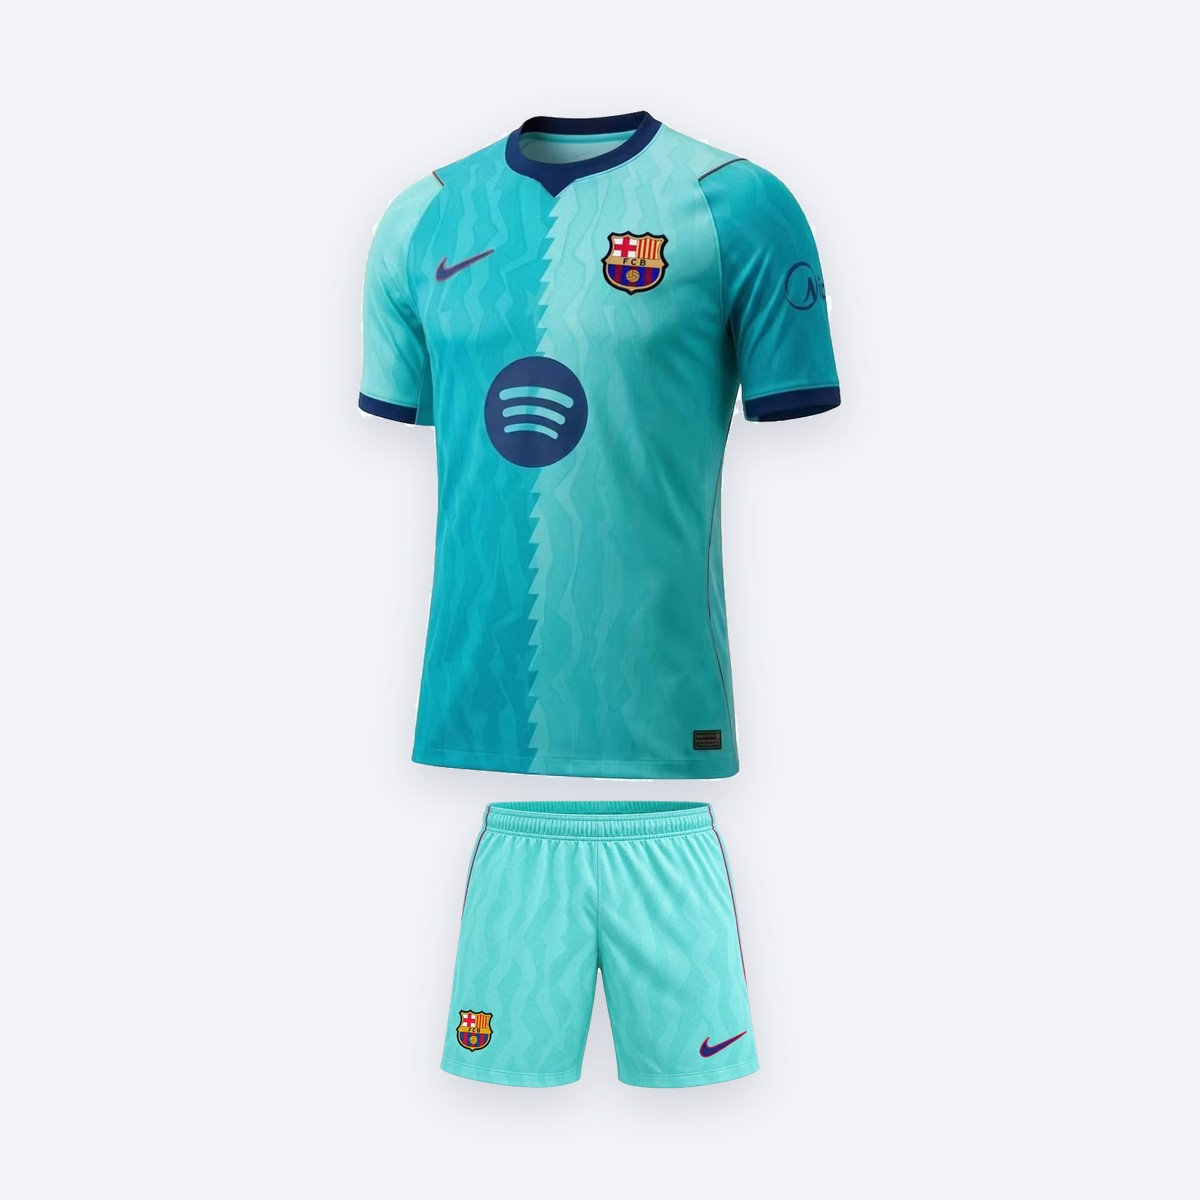
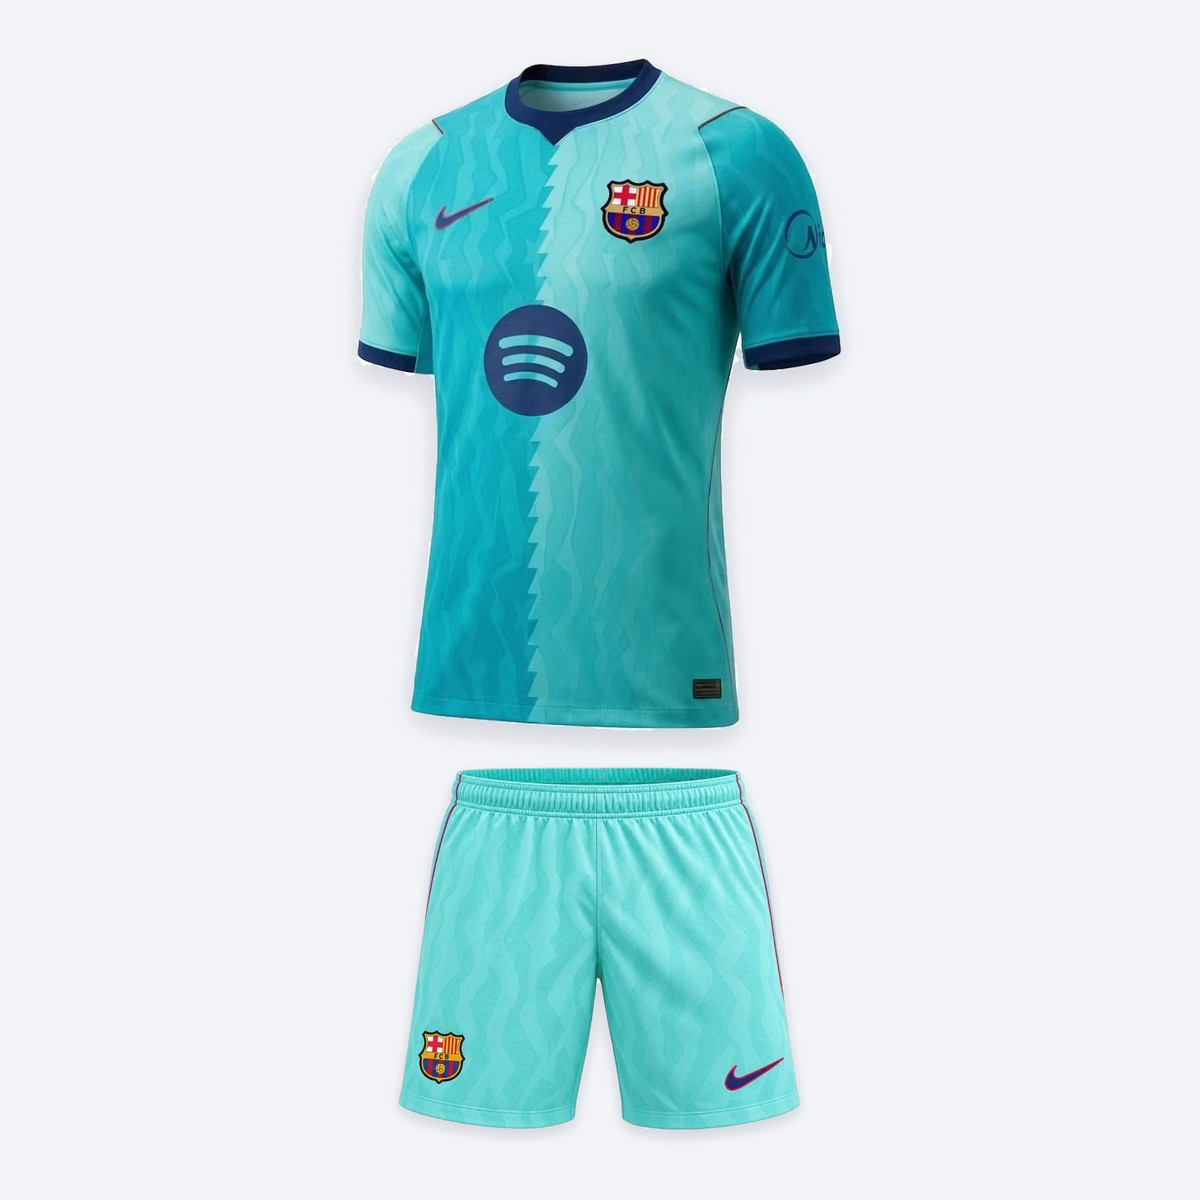
Kit photos: one proportion rule for all six 2026/27 kits (shorts waistband = 0.92 x shirt torso, centred) - relayout_kit.py (owner 2026-11-17)
Claude-Session: https://claude.ai/code/session_01W8RpLjh1v6oJsU4UWikvvJ

Changed region(s): [[0.2775, 0.0308, 0.7092, 0.9558]]

diff --git a/scripts/images/relayout_kit.py b/scripts/images/relayout_kit.py
@@ -1,0 +1,109 @@
+#!/usr/bin/env python3
+"""
+Re-lay out a full-kit photo from its own standardized pieces (owner request 2026-11-17: "the pants and
+the shirts aren't the same proportions" across the 2026/27 kits).
+
+Reads  <prefix>-shirt.jpg and <prefix>-shorts.jpg  (catalogue-standard 1200x1200 on flat #F1F3F7, as
+written by compose_kit.py) and rewrites <prefix>.jpg with ONE rule for every kit:
+
+  - the shorts' waistband is WAIST_TO_TORSO x the shirt's torso width (measured below the sleeves),
+    so the shorts always sit in the same proportion to the body of the shirt, whatever the shape of
+    the source photos;
+  - shirt + small gap + shorts are scaled together to fill FILL_H of the canvas height (width capped
+    at FILL_W) and centred.
+
+The pieces are lifted off the flat background with a soft difference matte - the same background
+colour on both sides, so nothing is redrawn and the soft shadows come along. compose_kit.py now uses
+the same layout for new kits.
+
+Usage: python3 scripts/images/relayout_kit.py public/products/real-madrid-2026-27-home-kit [...more prefixes]
+"""
+import sys
+
+import numpy as np
+from PIL import Image, ImageFilter
+
+BG = np.array([0xF1, 0xF3, 0xF7], dtype=float)
+C = 1200
+WAIST_TO_TORSO = 0.92  # shorts waistband width / shirt torso width
+FILL_H = 0.90
+FILL_W = 0.80
+GAP = 0.012  # of the canvas, between shirt hem and shorts waistband
+
+
+def load(path):
+    img = Image.open(path).convert("RGB")
+    a = np.asarray(img).astype(float)
+    diff = np.abs(a - BG).max(axis=2)
+    return img, diff
+
+
+def garment_box(diff, thr=9.0):
+    """Bounding box of the garment (ignores the faint shadow and specks)."""
+    m = diff > thr
+    rows = np.where(m.sum(axis=1) > 6)[0]
+    cols = np.where(m.sum(axis=0) > 6)[0]
+    return cols.min(), rows.min(), cols.max() + 1, rows.max() + 1, m
+
+
+def width_at(m, y):
+    xs = np.where(m[y])[0]
+    return (xs.max() - xs.min() + 1) if len(xs) else 0
+
+
+def piece(path, measure_frac):
+    img, diff = load(path)
+    x0, y0, x1, y1, m = garment_box(diff)
+    h = y1 - y0
+    # widest run near the requested height (median of a small band, robust to logos/edges)
+    band = [width_at(m, y0 + int(h * f)) for f in np.linspace(measure_frac - 0.03, measure_frac + 0.03, 7)]
+    body = float(np.median([b for b in band if b > 0]))
+    pad = 40  # keep the soft shadow
+    box = (max(0, x0 - pad), max(0, y0 - pad), min(C, x1 + pad), min(C, y1 + pad))
+    crop = img.crop(box)
+    alpha = np.clip((diff[box[1]:box[3], box[0]:box[2]] - 2.0) / 10.0, 0, 1)
+    a = Image.fromarray((alpha * 255).astype(np.uint8), "L").filter(ImageFilter.GaussianBlur(0.6))
+    rgba = crop.copy()
+    rgba.putalpha(a)
+    # garment bounds inside the crop (without the padding) for layout
+    inner = (x0 - box[0], y0 - box[1], x1 - box[0], y1 - box[1])
+    return rgba, inner, body
+
+
+def relayout(prefix):
+    shirt, sbox, torso = piece(f"{prefix}-shirt.jpg", 0.78)   # below the sleeves
+    shorts, hbox, waist = piece(f"{prefix}-shorts.jpg", 0.06)  # the waistband
+    s_h = sbox[3] - sbox[1]
+    s_w = sbox[2] - sbox[0]
+    k = WAIST_TO_TORSO * torso / waist  # shorts scale relative to the shirt
+    h_h = (hbox[3] - hbox[1]) * k
+    h_w = (hbox[2] - hbox[0]) * k
+    total_h = s_h + GAP * C + h_h
+    total_w = max(s_w, h_w)
+    f = min(FILL_H * C / total_h, FILL_W * C / total_w)
+
+    def scaled(img, inner, factor):
+        im = img.resize((round(img.width * factor), round(img.height * factor)), Image.LANCZOS)
+        return im, tuple(round(v * factor) for v in inner)
+
+    s_img, s_in = scaled(shirt, sbox, f)
+    h_img, h_in = scaled(shorts, hbox, f * k)
+    top = round((C - (s_in[3] - s_in[1] + GAP * C + h_in[3] - h_in[1])) / 2)
+    can = Image.new("RGB", (C, C), tuple(int(v) for v in BG))
+    # shorts first, then the shirt over the gap (its hem shadow falls on the shorts like before)
+    hx = round((C - (h_in[2] - h_in[0])) / 2) - h_in[0]
+    hy = top + (s_in[3] - s_in[1]) + round(GAP * C) - h_in[1]
+    can.paste(h_img, (hx, hy), h_img)
+    sx = round((C - (s_in[2] - s_in[0])) / 2) - s_in[0]
+    sy = top - s_in[1]
+    can.paste(s_img, (sx, sy), s_img)
+    can.save(f"{prefix}.jpg", "JPEG", quality=90, optimize=True, progressive=True)
+    print(f"{prefix}: torso {torso:.0f}px waist {waist:.0f}px -> shorts x{k:.2f}, fill x{f:.2f}")
+
+
+if __name__ == "__main__":
+    if len(sys.argv) < 2:
+        print(__doc__)
+        sys.exit(2)
+    for p in sys.argv[1:]:
+        relayout(p)

diff --git a/scripts/images/compose_kit.py b/scripts/images/compose_kit.py
@@ -14,6 +14,8 @@ baked-in shadow leaves a light outline.
 Usage: python3 scripts/images/compose_kit.py SHIRT SHORTS OUT_PREFIX
   e.g. ... shirt.jpg shorts.webp public/products/real-madrid-2026-27-home-kit
 Then add the three as product_images rows (short sleeve, sort 0/1/2) of the kit's product.
+Then run scripts/images/relayout_kit.py <OUT_PREFIX> so the kit photo uses the one shared proportion rule
+(shorts waistband = 0.92 x shirt torso, centred, 90% of the height) - owner request 2026-11-17.
 """
 import os
 import sys

diff --git a/CLAUDE.md b/CLAUDE.md
@@ -26,7 +26,7 @@ AI sales system for @kitversejerseys: an Instagram-DM sales bot that sounds like
 - Club bundles (owner request 2026-11-12): `/bundles` + `/bundles/[slug]` (`src/data/bundles.ts`): one club's three 2026/27 shirts (home, away, third - fixed) in the PLAYER version at the BUNDLE price (owner 2026-11-15 "keep them as 330" when player went to 115: price groups `bundle_player` 110 / `bundle_player_long` 120), each customised on its own (size, short/long sleeve, name+number, patches; `src/components/bundle/BundleForm.tsx`), plus one optional gift box per bundle. Adding = three ordinary jersey cart lines + one gift box on the cart (`giftBoxes` in CartProvider, key `kitverse-giftbox-v1`, which checkout's gift-box picker now reads/writes), so checkout and the server price it like any order. Live: Real Madrid, Barcelona, Manchester United, Manchester City (Man Utd / Man City box photos generated from the real product photos, 2026-11-13); a bundle hides itself if any of its shirts is off the site or out of stock. Linked from More menu, the team shop pages and each bundled shirt's page (`BundleTeaser`). Promoted on the home page right under the category grid (owner request 2026-11-13, "for now"): `src/components/home/HomeBundles.tsx`, Real Madrid + Barcelona (`HOME_BUNDLES`) - remove `<HomeBundles/>` from `src/app/[locale]/page.tsx` to take it down. Main picture = the owner's boxed-shirts photo (`image` in bundles.ts, `public/bundles/<slug>.jpg`, added 2026-11-12), with the three shirt photos under it.
 - Bundle prices (owner request 2026-11-15; since 2026-11-17 EVERY bundle is player version only - `completeBundles()` refuses a fan line in any bundle): a cart line added from a bundle carries the bundle slug (`bundle` on jersey/accessory cart items, checkout request, `order_items.bundle` / `order_accessories.bundle` - migration 20261115120000); it gets the bundle price ONLY while the whole bundle is on the order - `completeBundles()` in `src/data/bundle-defs.ts` (browser-safe, tested), used by cart/checkout display and by `web.ts` on the server (an incomplete bundle = normal prices). The engine prices a `bundle` shirt from the `bundle: true` price groups (`bundle_fan` 95, `bundle_fan_long` 105, `bundle_player` 110, `bundle_player_long` 120 = the old prices) and bundle accessory units at the add-on's `bundle_price` (keychain 15, scarf 45); all editable in admin Pricing. **Fan bundles** (`FAN_BUNDLES`, `/bundles/fan-real-madrid|fan-barcelona|fan-manchester-united`, `FanBundleForm`): pick one of the club bundle's three 2026/27 shirts, player version (owner 2026-11-17: "all the bundles should be only player version, no retro no fan"), customise it, + the team's keychain + a scarf; the page, the /bundles cards and the home bundle cards show "Separately ₪X - You save ₪Y" (`SaveNote`).
 - **Build your own bundle** (owner request 2026-11-17, `/bundles/build-your-own`): ANY 3 current-season shirts (2024/25+, not retro, not kits, on sale - `customBundleEligible()` in `src/data/bundles.ts`) from any teams, PLAYER version only (owner 2026-11-17: "all the bundles should be only player version - no retro no fan"), short/long, customised like the club bundle (`src/components/bundle/CustomBundleForm.tsx`: 3 slots, a search + team picker dialog, optional gift box, "You save" note), at the SAME bundle prices as the club bundles (owner chose "same bundle prices": groups `bundle_fan` 95 / `bundle_fan_long` 105 / `bundle_player` 110 / `bundle_player_long` 120). Each added bundle gets its own slug `custom-<random>` (`newCustomBundleSlug`); `completeBundles()` counts it complete only with exactly 3 shirt units, all player version, no accessories, and (server) every shirt eligible - otherwise normal prices. Linked from the top of `/bundles` and from the product page of any eligible shirt without a club bundle (`BundleTeaser` -> `BuildYourOwnTeaser`, opens with `?first=<handle>` already in slot 1).
-- Full kits + kids kits (owner request 2026-11-15): a kit (shirt + shorts) is its OWN product row - `products.is_kit_with_shorts` = true, plus flag `kids_kit` (`KIDS_KIT_FLAG`, `src/lib/catalog/stock.ts`) for the kids one - added in admin **Products -> Add shirt** with "What is it: Shirt / Full kit (adult) / Kids kit" (names from `shirtNames(..., type)`: "Real Madrid 2026/27 Home Kit" / "... Home Kids Kit"; a kit never reuses a shirt's row). `store:export` writes `set: "kit" | "kids_kit"` into catalog.json and drops a kit that has no photo of its own (owner: "I'll send kit photos" - never a shirt photo or placeholder). Kits are only on `/kits` and `/kids-kits` (`src/components/kits/KitListing.tsx`) + search/product pages/cart (`getSellableProducts()`); `getVisibleProducts()` stays shirts-only; the header's "Kits" entry (nav-data) appears once a kit is live. Prices = admin Pricing groups `adult_kit` 160 (fan), `adult_kit_player` 170, `adult_kit_retro` 180 (any retro adult kit, one price; listed before player so retro wins), `kids_kit` 150 (retro kids too) (owner 2026-11-15, re-priced the same day from 170/180); `priceFor(..., set)` on the site, the engine on the server. Adult kits: sizes S-4XL (3XL/4XL surcharge), fan or player, short sleeve only; kids kits: sizes 16-28 (`KIDS_SIZE_CHART` in `src/data/pricing.ts` = the owner's supplier chart, ages 3-13), fan only, short sleeve; name+number and patches as on shirts. `web.ts` stores the line from the product's own type (kids -> audience kids/fan, kits -> short) and refuses a size the product doesn't take. **Size guide** (`/size-guide`, redesigned 2026-11-15, owner: "all the measurements"): every number is the supplier's own chart from the yupoo "📏Sizes Chart" album (`src/data/size-charts.ts` = fan S-4XL, player S-XXL - no player 3XL/4XL numbers from the supplier, adult shorts S-XXL; kids = `KIDS_SIZE_CHART`), drawn by `src/components/size/MeasureChart.tsx` (garment drawing with lettered lines, size chips, full table); anchors #finder #fan #player #kits #kids #measure #faq, the product page's Size guide link goes to #fan/#player/#kids. Kids size calculator (height + weight, owner request 2026-11-15; either one alone works, both = the bigger size): `KidsSizeHelper` on kids kit pages and /size-guide#kids (the kids list only links there) (`kidsSizeFor`/`kidsSizeForHeight`/`kidsSizeForWeight`, tested in `src/data/kits.test.ts`). The weight ranges in `KIDS_SIZE_CHART` are typical estimates, not the supplier's chart - replace them if the supplier gives weights. Supplier sheet says "FULL KIT (SHIRT+SHORTS)" / "KIDS FULL KIT (SHIRT+SHORTS)". First kits (2026-11-15): Barcelona 2014/15 retro home + away kits, adult + kids, same owner photo per kit (retro kit = fan only, priced as a kit). Real Madrid 2026/27 home/away/third adult kits (2026-11-15, fan + player, DB rows added directly): photos = kit (shirt over shorts) / shirt alone / shorts alone, made by `scripts/images/compose_kit.py` from the white-background shirt originals + the owner's shorts photos (`public/products/real-madrid-2026-27-<kit>-kit(-shirt|-shorts).jpg`). Real Madrid naming on the site: away = green, third = pink. Barcelona 2026/27 home/away/third adult kits the same way (navy / purple / turquoise shorts). Fourth kits (owner 2026-11-15): `Kit` now includes "Fourth" (types, shirt-names, export filter, `product.kit.Fourth`); first one Barcelona 2026/27 Fourth Shirt (owner's render, watermark cropped). Como 2026/27 Home Shirt live (owner photos front + back; `como` team now under Serie A in the DB and in store-collections).
+- Full kits + kids kits (owner request 2026-11-15): a kit (shirt + shorts) is its OWN product row - `products.is_kit_with_shorts` = true, plus flag `kids_kit` (`KIDS_KIT_FLAG`, `src/lib/catalog/stock.ts`) for the kids one - added in admin **Products -> Add shirt** with "What is it: Shirt / Full kit (adult) / Kids kit" (names from `shirtNames(..., type)`: "Real Madrid 2026/27 Home Kit" / "... Home Kids Kit"; a kit never reuses a shirt's row). `store:export` writes `set: "kit" | "kids_kit"` into catalog.json and drops a kit that has no photo of its own (owner: "I'll send kit photos" - never a shirt photo or placeholder). Kits are only on `/kits` and `/kids-kits` (`src/components/kits/KitListing.tsx`) + search/product pages/cart (`getSellableProducts()`); `getVisibleProducts()` stays shirts-only; the header's "Kits" entry (nav-data) appears once a kit is live. Prices = admin Pricing groups `adult_kit` 160 (fan), `adult_kit_player` 170, `adult_kit_retro` 180 (any retro adult kit, one price; listed before player so retro wins), `kids_kit` 150 (retro kids too) (owner 2026-11-15, re-priced the same day from 170/180); `priceFor(..., set)` on the site, the engine on the server. Adult kits: sizes S-4XL (3XL/4XL surcharge), fan or player, short sleeve only; kids kits: sizes 16-28 (`KIDS_SIZE_CHART` in `src/data/pricing.ts` = the owner's supplier chart, ages 3-13), fan only, short sleeve; name+number and patches as on shirts. `web.ts` stores the line from the product's own type (kids -> audience kids/fan, kits -> short) and refuses a size the product doesn't take. **Size guide** (`/size-guide`, redesigned 2026-11-15, owner: "all the measurements"): every number is the supplier's own chart from the yupoo "📏Sizes Chart" album (`src/data/size-charts.ts` = fan S-4XL, player S-XXL - no player 3XL/4XL numbers from the supplier, adult shorts S-XXL; kids = `KIDS_SIZE_CHART`), drawn by `src/components/size/MeasureChart.tsx` (garment drawing with lettered lines, size chips, full table); anchors #finder #fan #player #kits #kids #measure #faq, the product page's Size guide link goes to #fan/#player/#kids. Kids size calculator (height + weight, owner request 2026-11-15; either one alone works, both = the bigger size): `KidsSizeHelper` on kids kit pages and /size-guide#kids (the kids list only links there) (`kidsSizeFor`/`kidsSizeForHeight`/`kidsSizeForWeight`, tested in `src/data/kits.test.ts`). The weight ranges in `KIDS_SIZE_CHART` are typical estimates, not the supplier's chart - replace them if the supplier gives weights. Supplier sheet says "FULL KIT (SHIRT+SHORTS)" / "KIDS FULL KIT (SHIRT+SHORTS)". First kits (2026-11-15): Barcelona 2014/15 retro home + away kits, adult + kids, same owner photo per kit (retro kit = fan only, priced as a kit). Real Madrid 2026/27 home/away/third adult kits (2026-11-15, fan + player, DB rows added directly): photos = kit (shirt over shorts) / shirt alone / shorts alone, made by `scripts/images/compose_kit.py` + `scripts/images/relayout_kit.py` (owner 2026-11-17: one proportion rule for every kit photo - shorts waistband 0.92 x the shirt torso width, centred, 90% of the height) from the white-background shirt originals + the owner's shorts photos (`public/products/real-madrid-2026-27-<kit>-kit(-shirt|-shorts).jpg`). Real Madrid naming on the site: away = green, third = pink. Barcelona 2026/27 home/away/third adult kits the same way (navy / purple / turquoise shorts). Fourth kits (owner 2026-11-15): `Kit` now includes "Fourth" (types, shirt-names, export filter, `product.kit.Fourth`); first one Barcelona 2026/27 Fourth Shirt (owner's render, watermark cropped). Como 2026/27 Home Shirt live (owner photos front + back; `como` team now under Serie A in the DB and in store-collections).
 - Shipment tracking (owner request 2026-11-13): the supplier ships a batch with Junhe; the owner types its tracking number on the batch page (admin Supplier batches -> batch -> "Shipment tracking", `saveTrackingNumber`). `src/lib/tracking/shipments.ts` reads it through 17TRACK (`src/lib/tracking/track17.ts`, API v2.2, carrier auto-detected; needs `TRACK17_API_KEY` - none set yet, so tracking is off and the owner uses "I received this shipment") every 3 hours (Inngest `shipment-tracking`) or on "Check now", stores the events on `supplier_batches` (`tracking_*`, `shipped_at`, `received_at` - migration 20261113004045) and moves the batch's orders FORWARD only: saving the tracking number (= the supplier shipped; owner 2026-11-13 wants it to work with no tracking account) or the parcel moving -> `in_supplier_batch` becomes `produced`; Junhe "Delivered" (to the owner) or his button -> `in_supplier_batch`/`produced`/`at_warehouse` become `with_courier`; 3 days after `received_at` -> `delivered` (+ the same cash_collections row as a manual Delivered). Each move = an `order_events` row (actor `system`) + an admin notification. Pure rules in `src/lib/tracking/stage.ts` (tested in `src/lib/orders/eta.test.ts`). Customers never see the tracking number or carrier: `/o/[token]` shows five steps in the owner's wording - تأكدت / تحضير للإنتاج (in_supplier_batch: "preparing for production") / تغليف وفحص (produced, at_warehouse: "being packed and sent to our warehouse for a quality check") / بالتوصيل (with_courier: "arrives within 24-72 hours") / وصلت - plus an ESTIMATED ARRIVAL as dates (owner: "estimated date, not 10-20 days"): `estimatedArrival()` in `src/lib/orders/eta.ts` = 10-20 working days (Sun-Thu) from confirmation, from tomorrow once the first date passes, "very soon" after the last; out for delivery = 1-3 days from when it went out. `/o/track`, the bot's order-status tool and admin labels (produced = "Shipped", with_courier = "Out for delivery") use the same meaning.
 - Supplier sheet (owner request 2026-11-12): a supplier batch downloads as Excel (`/admin/orders/batches/[id]/xlsx`, `src/lib/orders/supplier-sheet.ts`) in the Chinese supplier's own layout - an order-number row, then one row per SHIRT (qty 2 = 2 rows): the website photo of that sleeve, 3 empty bordered cells the owner pastes his own pictures into, Fan/Player (+ LONG SLEEVE / KIDS / WOMEN), size, NAME#NUMBER, patch NAMES (`patchSupplierName()` in `src/data/patches.ts`) + GIFT BOX. Short English only - he reads pictures, not paragraphs. The old CSV stays as a secondary link. **English / 中文 switch** (owner requests 2026-11-17) next to "Download Excel" on the batch page (`sheet-download.tsx`, in the URL `?lang=zh`): switches BOTH the on-page batch table (for screenshots) and the Excel - headers, shirt names (`shirtTitleZh`, team names in `ZH_TEAM`, unknown team stays English), version/sleeve/kit words, patch names (`patchSupplierNameZh`) and gift box in Chinese; names/numbers and sizes stay as typed. The batch table shows each detail big: large photo, size as a pill, Player (blue) / Long sleeve (gold) / kit (green) chips, print name in gold, patches as chips.
 - Header navigation + responsive (owner requests 2026-11-12): six entries - Shop, National teams, Classics (retro), Leagues, Accessories (standalone), More (size guide, track order, about, contact) - built from the catalogue and existing routes only (`src/lib/nav-data.ts`). Desktop dropdowns: `DesktopNav.tsx` (hover with a mouse, first tap opens on touch, keyboard + Escape), navy/gold `.kv-nav-*` styles using the `--flood-*` tokens; phone: `MobileMenu.tsx`, a navy slide-in menu with expandable rows (leagues nest to clubs). Component breakpoints in globals.css: `nav` (64rem/1024px) = full header nav, below it the hamburger; `hero` (48rem/768px) = homepage hero side by side (equal columns until `xl`, original sizing from 1280px; price row wraps without dividers below 1280px; floating price badge from 1024px). The phone header (<768px) is unchanged on purpose: hamburger + crest at the right, search / bag / language at the left.
